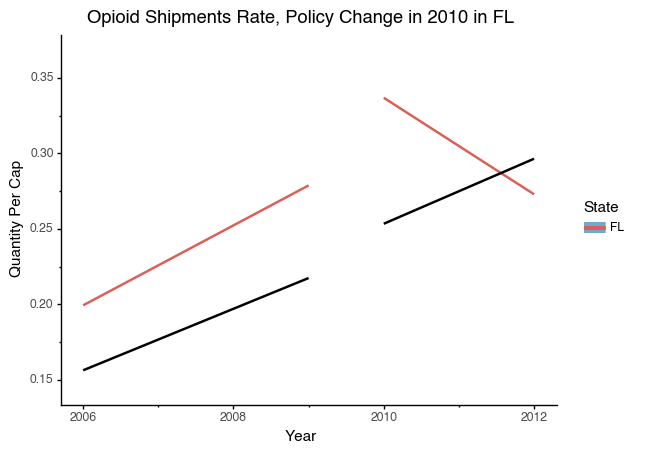
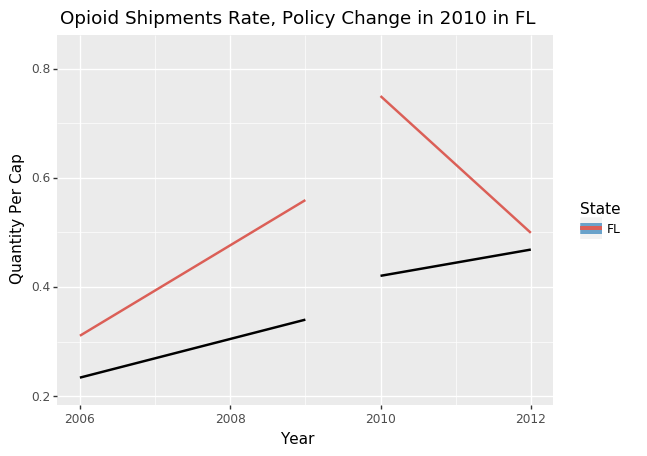
modify code

diff --git a/10_code/Shipments-allCode.py b/10_code/Shipments-allCode.py
@@ -28,23 +28,16 @@ Read data
 def readData(path):
     df = pd.read_csv(path,
                      sep='\t',
-                     usecols=['TRANSACTION_DATE', 'BUYER_STATE', 'BUYER_COUNTY', 'QUANTITY', 'BUYER_ZIP'])
+                     usecols=['TRANSACTION_DATE', 'BUYER_STATE', 'BUYER_COUNTY', 'BUYER_ZIP', 'CALC_BASE_WT_IN_GM', 'MME_Conversion_Factor'])
     return df
 
 '''
 Transfer TRANSACTION_DATE to year & month
 '''
 def transferDate(df_shipments):
-# Convert RTANSACTION_DATE to string in order to subset it
-    df_shipments['TRANSACTION_DATE'] = df_shipments['TRANSACTION_DATE'].astype(str)
-# Subset the TRANSACTION_DATE, and get YEAR and Month
-    df_shipments['YEAR'] = df_shipments['TRANSACTION_DATE'].apply(lambda x: x[-4:])
-    df_shipments['MONTH'] = df_shipments['TRANSACTION_DATE'].apply(lambda x: x[-8:-6])
-# Convert to int, in order to use PeriodIndex
-# Create a new col as YYYY-MM
-    df_shipments['YEAR'] = df_shipments['YEAR'].astype(int)
-    df_shipments['MONTH'] = df_shipments['MONTH'].astype(int)
-    df_shipments['TRANSACTION_TIME'] = pd.PeriodIndex(year=df_shipments["YEAR"], month=df_shipments["MONTH"], freq="m")
+    df_shipments['TRANSACTION_TIME'] = pd.to_datetime(df_shipments.TRANSACTION_DATE, format="%m%d%Y")
+    df_shipments['YEAR'] = df_shipments.TRANSACTION_TIME.dt.year
+    df_shipments['MONTH'] = df_shipments.TRANSACTION_TIME.dt.month
     return df_shipments
 
 '''
@@ -111,11 +104,17 @@ assert (shipments_FL.isnull().any().sum())==0
 # Transfer time
 shipments_FL = transferDate(shipments_FL)
 
-# Subset population for FL
+# Add a column : morphine equivalent quantity
+shipments_FL['QUANTITY'] = shipments_FL['CALC_BASE_WT_IN_GM'] * shipments_FL['MME_Conversion_Factor']
+
+# Drop uncorrelated cols
+shipments_FL = shipments_FL.drop( ['BUYER_ZIP', 'TRANSACTION_DATE','CALC_BASE_WT_IN_GM','MME_Conversion_Factor'], axis = 1)
+
+# Subset population for FL & fix typo
 pop_FL = pop[pop.State == 'Florida'].reset_index().drop('index', axis = 1)
 pop_FL['County'] = pop_FL['County'].replace({'ST. LUCIE': 'SAINT LUCIE',
-                                                          'ST. JOHNS': 'SAINT JOHNS',
-                                                          'DESOTO': 'DE SOTO'})
+                                             'ST. JOHNS': 'SAINT JOHNS',
+                                             'DESOTO': 'DE SOTO'})
 
 # Merge
 shipment_FL_merged = pd.merge(shipments_FL, pop_FL, left_on='BUYER_COUNTY', right_on='County',
@@ -166,6 +165,11 @@ assert (shipments_AL.isnull().any().sum())==0
 # Transfer time
 shipments_AL = transferDate(shipments_AL)
 
+# Add a column : morphine equivalent quantity
+shipments_AL['QUANTITY'] = shipments_AL['CALC_BASE_WT_IN_GM'] * shipments_AL['MME_Conversion_Factor']
+# Drop uncorrelated cols
+shipments_AL = shipments_AL.drop( ['BUYER_ZIP', 'TRANSACTION_DATE','CALC_BASE_WT_IN_GM','MME_Conversion_Factor'], axis = 1)
+
 # Merge shipment data with pop data for AL
 # Subset population for AL
 pop_AL = pop[pop.State == 'Alabama'].reset_index().drop('index', axis = 1)
@@ -208,6 +212,12 @@ assert (shipments_GA.isnull().any().sum())==0
 # Transfer time
 shipments_GA = transferDate(shipments_GA)
 
+# Add a column : morphine equivalent quantity
+shipments_GA['QUANTITY'] = shipments_GA['CALC_BASE_WT_IN_GM'] * shipments_GA['MME_Conversion_Factor']
+
+# Drop uncorrelated cols
+shipments_GA = shipments_GA.drop( ['BUYER_ZIP', 'TRANSACTION_DATE','CALC_BASE_WT_IN_GM','MME_Conversion_Factor'], axis = 1)
+
 # Merge shipment data with pop data for GA
 # Subset population for GA
 pop_GA = pop[pop.State == 'Georgia'].reset_index().drop('index', axis = 1)
@@ -242,7 +252,7 @@ prePost = (ggplot(aes(x = 'YEAR', y = 'QUANTITY_PERCAP', group = 'POST', color =
            # Georgia
            +geom_smooth(method = 'lm', fill = None, data = shipment_GA_grouped)
            # Change themes
-           +theme_classic(base_family = "Helvetica")
+           #+theme_classic(base_family = "Helvetica")
            # change labels
            +labs(title = "Opioid Shipments Rate, Policy Change in 2010 in FL",
                  x = "Year",
@@ -260,7 +270,7 @@ prePost2 = (ggplot(aes(x = 'YEAR', y = 'QUANTITY_PERCAP', group = 'POST', color 
            # AL & GA
            +geom_smooth(method = 'lm', fill = None,data = shipment_AL_GA)
            # Change themes
-           +theme_classic(base_family = "Helvetica")
+           #+theme_classic(base_family = "Helvetica")
            # change labels
            +labs(title = "Opioid Shipments Rate, Policy Change in 2010 in FL",
                  x = "Year",
